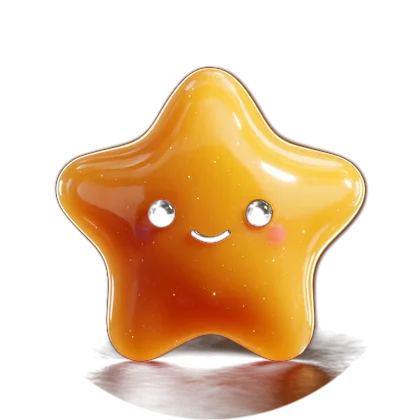
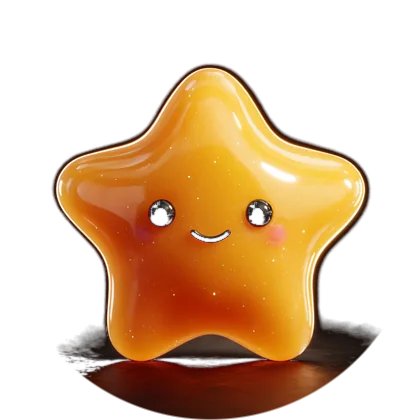
Tira o filtro branco, devolve opacidade e poe a Lara nos cartoes
Feedback do Ademir, tela por tela:

- O veu branco por cima das artes caiu de ~80% pra ~20%. Quem precisava de
  contraste (titulos, texto solto) ganhou sombra propria em vez de uma
  camada leitosa sobre a imagem inteira.
- Planetas voltaram a ser opacos: o recorte usava rampa longa e deixava o
  lado escuro do planeta semitransparente, com a nebulosa aparecendo por
  dentro. Agora acima de 22 de luminancia e 100% solido.
- Casas do jogo da velha viraram vitral escuro translucido: o castelo
  aparece inteiro e o ✗ e o ◯ ganharam contraste em cima dele.
- Boneca do quiz subiu de 44% pra 72% de opacidade e ganhou um halo suave
  atras, pra nunca se perder no fundo.
- Fim da rolagem vertical e da faixa roxa: home e menus agora dividem a
  altura disponivel em vez de estourar a tela.
- Bug do fundo: a troca era engolida quando a foto se repetia entre telas,
  porque eu comparava com a camada de tras em vez da que estava visivel.
- Cartoes da home agora tem a Lara de verdade em tres deles e Saturno no
  quarto. As 10 poses dela entraram recortadas com fundo transparente.

diff --git a/css/style.css b/css/style.css
@@ -26,9 +26,10 @@
 
 *,*::before,*::after{box-sizing:border-box;margin:0;padding:0}
 
-html,body{height:100%}
+html,body{height:100%;min-height:100%}
 
 body{
+  background:#0F0A24;
   font-family:var(--font);
   color:var(--ink);
   background:var(--purple-deep);
@@ -51,7 +52,7 @@ button{font:inherit;color:inherit;border:0;background:none;cursor:pointer;touch-
   width:100%;
   max-width:520px;
   margin:0 auto;
-  min-height:100dvh;
+  min-height:100dvh;height:100dvh;
   background:linear-gradient(170deg,#FFF6FB 0%,#F4ECFF 55%,#E9E2FF 100%);
   overflow:hidden;
   box-shadow:0 0 70px rgba(0,0,0,.45);
@@ -133,8 +134,10 @@ button{font:inherit;color:inherit;border:0;background:none;cursor:pointer;touch-
    =========================================================== */
 .home-top{display:flex;align-items:flex-start;justify-content:space-between;gap:12px}
 .hello{display:flex;flex-direction:column}
-.hello__hi{font-size:30px;font-weight:900;letter-spacing:-.5px;color:var(--ink)}
-.hello__q{font-size:15px;color:var(--ink-soft);margin-top:2px}
+.hello__hi{font-size:30px;font-weight:900;letter-spacing:-.5px;color:var(--ink);
+  text-shadow:0 1px 12px rgba(255,255,255,.9),0 1px 3px rgba(255,255,255,.9)}
+.hello__q{font-size:15px;color:var(--ink-soft);margin-top:2px;
+  text-shadow:0 1px 8px rgba(255,255,255,.9)}
 
 .icon-btn{
   flex:0 0 auto;display:grid;place-items:center;
@@ -156,28 +159,32 @@ button{font:inherit;color:inherit;border:0;background:none;cursor:pointer;touch-
 .star-bar__count{font-size:22px;font-weight:900;color:#8A5B00}
 .star-bar__label{font-size:14px;color:#8A5B00;opacity:.8}
 
-.menu{flex:1;display:grid;grid-template-columns:1fr 1fr;gap:14px;align-content:center;padding-bottom:8px}
+.menu{flex:1;min-height:0;display:grid;grid-template-columns:1fr 1fr;grid-template-rows:1fr 1fr;
+  gap:14px;padding-bottom:8px}
 .tile{
   display:flex;flex-direction:column;align-items:center;justify-content:center;gap:10px;
-  width:100%;min-height:168px;padding:18px 12px;border-radius:var(--radius);
+  width:100%;height:100%;min-height:0;padding:16px 12px;border-radius:var(--radius);
   text-align:center;color:#fff;box-shadow:var(--shadow);position:relative;overflow:hidden;
 }
-.tile strong{font-size:19px;font-weight:900;line-height:1.1;letter-spacing:-.4px;min-height:2.2em;
-  display:flex;align-items:center}
+.tile strong{font-size:18px;font-weight:900;line-height:1.05;letter-spacing:-.5px;min-height:2.1em;
+  display:flex;align-items:center;text-align:center}
 .tile:active{transform:translateY(5px);box-shadow:0 4px 0 rgba(43,27,84,.14)}
 .tile--body{background:linear-gradient(140deg,#FF83B8,var(--pink) 55%,#F0417F)}
 .tile--space{background:linear-gradient(140deg,#5E6BFF,#7C4DFF 50%,#4B2E93)}
+.tile--space .tile__foto{filter:drop-shadow(0 6px 16px rgba(0,0,0,.45))}
 .tile--words{background:linear-gradient(140deg,#5CE8BC,#12A87E 60%,#0B7A5C)}
 .tile--tic{background:linear-gradient(140deg,#FFC155,#F0761F)}
 .tile__art{
-  flex:0 0 auto;width:70px;height:70px;border-radius:20px;background:rgba(255,255,255,.22);
-  display:grid;place-items:center;padding:8px;
+  flex:1;min-height:0;width:100%;display:grid;place-items:center;padding:0;
 }
-.tile__art svg{width:100%;height:100%}
-.tile--space .tile__art svg{animation:spinSlow 14s linear infinite}
+.tile__foto{max-height:100%;max-width:88%;width:auto;height:auto;object-fit:contain;
+  filter:drop-shadow(0 6px 14px rgba(0,0,0,.28))}
+
+
 @keyframes spinSlow{to{transform:rotate(360deg)}}
 
-.home-foot{padding-top:14px;text-align:center;font-size:13px;color:var(--ink-soft);opacity:.75}
+.home-foot{padding-top:14px;text-align:center;font-size:13px;color:var(--ink-soft);opacity:.9;
+  text-shadow:0 1px 8px rgba(255,255,255,.95)}
 
 
 /* ===========================================================
@@ -221,7 +228,10 @@ button{font:inherit;color:inherit;border:0;background:none;cursor:pointer;touch-
    BARRA DE TOPO
    =========================================================== */
 .bar{display:flex;align-items:center;gap:12px;margin-bottom:14px;min-height:52px}
-.bar__title{flex:1;text-align:center;font-size:19px;font-weight:900;letter-spacing:-.2px}
+.bar__title{flex:1;text-align:center;font-size:19px;font-weight:900;letter-spacing:-.2px;
+  text-shadow:0 1px 10px rgba(255,255,255,.85),0 1px 3px rgba(255,255,255,.85)}
+.screen--dark .bar__title,.screen--space .bar__title,.screen--quiz.is-space .bar__title{
+  text-shadow:0 2px 10px rgba(0,0,0,.7),0 1px 3px rgba(0,0,0,.8)}
 .bar__stars{font-size:16px;font-weight:800;min-width:52px;text-align:right}
 .bar__spacer{width:52px;flex:0 0 52px}
 .bar--onspace{position:relative;z-index:2}
@@ -229,7 +239,7 @@ button{font:inherit;color:inherit;border:0;background:none;cursor:pointer;touch-
 /* ===========================================================
    MENU DE MODOS
    =========================================================== */
-.modes{display:flex;flex-direction:column;gap:16px;margin-top:6px}
+.modes{flex:1;min-height:0;display:flex;flex-direction:column;gap:16px;margin-top:6px}
 .mode{
   display:flex;flex-direction:column;align-items:flex-start;gap:4px;
   min-height:132px;padding:20px 88px 20px 20px;border-radius:var(--radius);text-align:left;
@@ -244,15 +254,16 @@ button{font:inherit;color:inherit;border:0;background:none;cursor:pointer;touch-
 .mode--play{border-left:8px solid var(--sun)}
 
 /* corpo: dois grupos (por fora / por dentro) com dois botões cada */
-.grupo{margin-bottom:20px}
+.grupo{margin-bottom:16px;display:flex;flex-direction:column;min-height:0}
 .grupo__titulo{
   display:flex;align-items:center;gap:10px;margin:0 4px 10px;
   font-size:17px;font-weight:900;letter-spacing:-.2px;
+  text-shadow:0 1px 10px rgba(255,255,255,.9),0 1px 3px rgba(255,255,255,.9);
 }
-.duo{display:grid;grid-template-columns:1fr 1fr;gap:12px}
+.duo{flex:1;min-height:0;display:grid;grid-template-columns:1fr 1fr;gap:12px}
 .duo>.mode-wrap{min-width:0}
 .mode--curto{
-  min-height:118px;padding:16px 12px;align-items:center;justify-content:center;
+  min-height:0;height:100%;padding:14px 12px;align-items:center;justify-content:center;
   text-align:center;gap:4px;border-left:0;border-top:8px solid var(--mint);
 }
 .mode--curto.mode--play{border-top-color:var(--sun)}
@@ -265,7 +276,10 @@ button{font:inherit;color:inherit;border:0;background:none;cursor:pointer;touch-
    =========================================================== */
 
 .stage{flex:1;min-height:0;padding:4px 0 10px}
-.stage .kid{height:100%}
+.stage .kid{height:100%;position:relative}
+.stage .kid::before{content:'';position:absolute;left:50%;top:50%;
+  width:86%;height:88%;transform:translate(-50%,-50%);border-radius:50%;
+  background:radial-gradient(closest-side,rgba(255,252,255,.70),rgba(255,252,255,.30) 58%,transparent 72%)}
 .kid{width:100%}
 .kid svg{width:100%;height:100%;display:block}
 
@@ -278,7 +292,8 @@ button{font:inherit;color:inherit;border:0;background:none;cursor:pointer;touch-
 }
 @keyframes ringPulse{0%,100%{opacity:1}50%{opacity:.55}}
 .kid .art{transition:opacity .3s ease}
-.kid.is-focando .art{opacity:.44}
+.kid.is-focando .art{opacity:.72}
+.kid svg{filter:drop-shadow(0 6px 18px rgba(43,27,84,.28))}
 .kid .foco{display:none;pointer-events:none}
 .kid.is-focando .foco{display:block}
 .kid .qmark{font:900 46px var(--font);fill:#fff;text-anchor:middle;paint-order:stroke;
@@ -312,7 +327,7 @@ button{font:inherit;color:inherit;border:0;background:none;cursor:pointer;touch-
   animation:twinkle 4s ease-in-out infinite alternate;
 }
 .space-hint{position:relative;z-index:2;display:flex;align-items:center;justify-content:center;
-  gap:10px;font-size:14px;margin-bottom:10px}
+  gap:10px;font-size:14px;margin-bottom:10px;text-shadow:0 2px 8px rgba(0,0,0,.8)}
 .space-hint>span{opacity:.75}
 
 .orbit-scroll{
@@ -348,7 +363,7 @@ button{font:inherit;color:inherit;border:0;background:none;cursor:pointer;touch-
 @keyframes floatY{0%,100%{transform:translateY(0)}50%{transform:translateY(-12px)}}
 .planet-card__toque:active .planet-card__orb{transform:scale(.94)}
 .planet-card__name{font-size:17px;font-weight:900;letter-spacing:-.2px}
-.planet-card__pos{font-size:11px;opacity:.6}
+.planet-card__pos{font-size:11px;opacity:.85;text-shadow:0 2px 6px rgba(0,0,0,.9)}
 
 /* ficha do planeta */
 .sheet{position:fixed;inset:0;z-index:60;display:grid;place-items:end center}
@@ -395,7 +410,11 @@ button{font:inherit;color:inherit;border:0;background:none;cursor:pointer;touch-
 .screen--quiz.is-space .progress i.is-now{background:var(--sun)}
 
 .quiz-stage{flex:1;min-height:0;padding:2px 0;position:relative}
-.quiz-stage .kid{height:100%}
+.quiz-stage .kid{height:100%;position:relative}
+.quiz-stage .kid::before{content:'';position:absolute;left:50%;top:50%;
+  width:86%;height:88%;transform:translate(-50%,-50%);border-radius:50%;
+  background:radial-gradient(closest-side,rgba(255,252,255,.72),rgba(255,252,255,.34) 58%,transparent 72%)}
+.screen--quiz.is-space .quiz-stage .kid::before{display:none}
 .planeta-quiz{height:100%;display:grid;place-items:center;animation:floatY 5s ease-in-out infinite}
 .planeta-quiz svg,.planeta-quiz .orbe{width:auto;height:auto;max-width:min(74vw,100%);max-height:100%;
   display:block;filter:drop-shadow(0 18px 34px rgba(0,0,0,.45))}
@@ -404,7 +423,9 @@ button{font:inherit;color:inherit;border:0;background:none;cursor:pointer;touch-
 .sheet__art .orbe{filter:drop-shadow(0 12px 30px rgba(0,0,0,.55))}
 
 .quiz-ask{display:flex;align-items:center;justify-content:center;gap:10px;margin:6px 0 14px}
-.quiz-ask h3{font-size:22px;font-weight:900;letter-spacing:-.3px}
+.quiz-ask h3{font-size:22px;font-weight:900;letter-spacing:-.3px;
+  text-shadow:0 1px 10px rgba(255,255,255,.9),0 1px 3px rgba(255,255,255,.9)}
+.screen--quiz.is-space .quiz-ask h3{text-shadow:0 2px 10px rgba(0,0,0,.75)}
 .speak-btn{
   display:grid;place-items:center;width:52px;height:52px;border-radius:18px;font-size:22px;
   background:#fff;box-shadow:0 4px 0 rgba(43,27,84,.12);
@@ -521,17 +542,19 @@ button{font:inherit;color:inherit;border:0;background:none;cursor:pointer;touch-
   display:grid;grid-template-columns:repeat(3,1fr);grid-template-rows:repeat(3,1fr);gap:10px;
 }
 .casa{
-  background:#fff;border-radius:22px;box-shadow:0 6px 0 rgba(43,27,84,.12);
+  background:rgba(28,16,52,.26);border:3px solid rgba(255,255,255,.78);
+  border-radius:22px;box-shadow:0 6px 0 rgba(40,24,10,.22),inset 0 2px 12px rgba(0,0,0,.18);
+  backdrop-filter:blur(2px);
   display:grid;place-items:center;padding:9%;
 }
 .casa:active{transform:translateY(4px);box-shadow:0 2px 0 rgba(43,27,84,.12)}
-.casa--cheia{background:#FFFDF7}
-.casa--ganhou{background:linear-gradient(180deg,#5BE7BC,var(--mint));box-shadow:0 6px 0 var(--mint-dark);
+.casa--cheia{background:rgba(28,16,52,.34)}
+.casa--ganhou{background:linear-gradient(180deg,rgba(91,231,188,.92),rgba(46,211,163,.92));box-shadow:0 6px 0 var(--mint-dark);border-color:rgba(255,255,255,.8);
   animation:rightPop .5s cubic-bezier(.2,.9,.3,1.6)}
 .marca{width:100%;height:100%;fill:none;stroke-linecap:round}
-.marca--x{stroke:var(--pink)}
-.marca--o{stroke:var(--purple)}
-.marca path,.marca circle{stroke-width:13;stroke-dasharray:210;stroke-dashoffset:210;
+.marca--x{stroke:#FF4D97;filter:drop-shadow(0 2px 10px rgba(0,0,0,.65))}
+.marca--o{stroke:#A98BFF;filter:drop-shadow(0 2px 10px rgba(0,0,0,.65))}
+.marca path,.marca circle{stroke-width:15;stroke-dasharray:210;stroke-dashoffset:210;
   animation:risca .34s ease-out forwards}
 .marca path:nth-of-type(2){animation-delay:.15s}
 @keyframes risca{to{stroke-dashoffset:0}}
@@ -559,7 +582,6 @@ button{font:inherit;color:inherit;border:0;background:none;cursor:pointer;touch-
   .placar__item b{font-size:18px}
   .velha-status{font-size:17px;padding:10px 16px}
   .tile{min-height:146px;gap:8px}
-  .tile__art{width:64px;height:64px}
   .tile strong{font-size:17px}
   .letra{height:56px;font-size:30px}
   .opt--letra{min-height:78px;font-size:44px}

diff --git a/js/app.js b/js/app.js
@@ -36,15 +36,18 @@ var App = (function () {
     'result':           { foto:'fundo-home',   veu:'claro'  }
   };
 
+  /* Véu mínimo. A imagem é o espetáculo — quem precisa de contraste
+     (título, texto solto) ganha sombra própria no CSS, não uma camada
+     branca por cima da arte inteira. */
   var VEUS = {
-    claro:  'linear-gradient(180deg, rgba(255,246,251,.74) 0%, rgba(252,244,255,.52) 38%, rgba(244,236,255,.80) 100%)',
-    escuro: 'linear-gradient(180deg, rgba(20,12,44,.55), rgba(12,8,30,.78))',
-    espaco: 'linear-gradient(180deg, rgba(8,10,32,.62), rgba(5,6,22,.80))',
-    meio:   'linear-gradient(180deg, rgba(255,246,240,.58) 0%, rgba(255,242,232,.44) 40%, rgba(255,238,225,.78) 100%)',
-    quiz:   'linear-gradient(180deg, rgba(255,248,252,.90), rgba(245,238,255,.94))',
-    /* cenário aparece em cima, onde está o desenho; some embaixo, onde ela lê e escolhe */
-    cena:   'linear-gradient(180deg, rgba(255,250,253,.34) 0%, rgba(255,249,253,.52) 42%, rgba(250,244,255,.92) 72%)'
+    claro:  'linear-gradient(180deg, rgba(255,248,252,.34) 0%, rgba(252,246,255,.16) 40%, rgba(246,238,255,.42) 100%)',
+    escuro: 'linear-gradient(180deg, rgba(16,10,38,.34), rgba(10,6,26,.55))',
+    espaco: 'linear-gradient(180deg, rgba(8,10,32,.28), rgba(5,6,22,.52))',
+    meio:   'linear-gradient(180deg, rgba(255,248,242,.20) 0%, rgba(255,246,238,.10) 45%, rgba(255,240,228,.36) 100%)',
+    quiz:   'linear-gradient(180deg, rgba(255,248,252,.30), rgba(245,238,255,.48))',
+    cena:   'linear-gradient(180deg, rgba(255,250,253,.14) 0%, rgba(255,249,253,.24) 42%, rgba(250,244,255,.62) 74%)'
   };
+
 
   var fundoAtivo = 'a';
   function pintarFundo(nome, extra) {
@@ -52,15 +55,19 @@ var App = (function () {
     var veu = $('#fundo-veu');
     if (!cfg) { veu.style.background = ''; $('#fundo-a').classList.remove('is-on'); $('#fundo-b').classList.remove('is-on'); return; }
 
-    var alvo = fundoAtivo === 'a' ? $('#fundo-b') : $('#fundo-a');
     var url = 'url("img/' + cfg.foto + '.webp")';
-    if (alvo.style.backgroundImage !== url) {
-      alvo.style.backgroundImage = url;
-      alvo.classList.add('is-on');
-      (fundoAtivo === 'a' ? $('#fundo-a') : $('#fundo-b')).classList.remove('is-on');
-      fundoAtivo = fundoAtivo === 'a' ? 'b' : 'a';
-    }
+    var visivel = fundoAtivo === 'a' ? $('#fundo-a') : $('#fundo-b');
     veu.style.background = VEUS[cfg.veu] || VEUS.claro;
+
+    /* já é essa a imagem no ar? não faz nada. (antes eu comparava com a
+       camada de trás e a troca era engolida quando a foto se repetia) */
+    if (visivel.style.backgroundImage === url) return;
+
+    var alvo = fundoAtivo === 'a' ? $('#fundo-b') : $('#fundo-a');
+    alvo.style.backgroundImage = url;
+    alvo.classList.add('is-on');
+    visivel.classList.remove('is-on');
+    fundoAtivo = fundoAtivo === 'a' ? 'b' : 'a';
   }
 
   function ir(nome) {

diff --git a/index.html b/index.html
@@ -65,7 +65,7 @@
     <div class="menu">
       <div class="tile-wrap">
         <button class="tile tile--body" data-go="corpo-menu" type="button">
-          <span class="tile__art"><svg viewBox="0 0 120 120" aria-hidden="true"><use href="#mini-kid"></use></svg></span>
+          <span class="tile__art"><img src="img/lara-corpo.webp" alt="" class="tile__foto"></span>
           <strong>Corpo Humano</strong>
         </button>
         <button class="som-btn som-btn--nano som-flutuante" type="button" aria-label="Ouvir Corpo Humano"
@@ -74,7 +74,7 @@
 
       <div class="tile-wrap">
         <button class="tile tile--space" data-go="espaco-menu" type="button">
-          <span class="tile__art"><svg viewBox="0 0 120 120" aria-hidden="true"><use href="#mini-planet"></use></svg></span>
+          <span class="tile__art"><img src="img/icone-espaco.webp" alt="" class="tile__foto"></span>
           <strong>Sistema Solar</strong>
         </button>
         <button class="som-btn som-btn--nano som-flutuante" type="button" aria-label="Ouvir Sistema Solar"
@@ -83,7 +83,7 @@
 
       <div class="tile-wrap">
         <button class="tile tile--words" data-go="palavras-jogar" type="button">
-          <span class="tile__art"><svg viewBox="0 0 120 120" aria-hidden="true"><use href="#mini-letras"></use></svg></span>
+          <span class="tile__art"><img src="img/lara-palavras.webp" alt="" class="tile__foto"></span>
           <strong>Palavras</strong>
         </button>
         <button class="som-btn som-btn--nano som-flutuante" type="button" aria-label="Ouvir Palavras"
@@ -92,7 +92,7 @@
 
       <div class="tile-wrap">
         <button class="tile tile--tic" data-go="velha-menu" type="button">
-          <span class="tile__art"><svg viewBox="0 0 120 120" aria-hidden="true"><use href="#mini-velha"></use></svg></span>
+          <span class="tile__art"><img src="img/lara-velha.webp" alt="" class="tile__foto"></span>
           <strong>Jogo da Velha</strong>
         </button>
         <button class="som-btn som-btn--nano som-flutuante" type="button" aria-label="Ouvir Jogo da Velha"

diff --git a/sw.js b/sw.js
@@ -1,7 +1,7 @@
 /* Service worker — o app abre offline e se atualiza sozinho.
    Estratégia: entrega o que está em cache na hora (rápido pra criança)
    e, em paralelo, baixa a versão nova pro próximo abrir. */
-var CACHE = 'mundo-da-lara-v9';
+var CACHE = 'mundo-da-lara-v11';
 var ARQUIVOS = [
   './',
   'index.html',
@@ -27,6 +27,17 @@ var ARQUIVOS = [
   'img/fundo-home.webp',
   'img/fundo-inicio.webp',
   'img/fundo-velha.webp',
+  'img/icone-espaco.webp',
+  'img/lara-astronauta.webp',
+  'img/lara-cientista.webp',
+  'img/lara-corpo.webp',
+  'img/lara-espaco.webp',
+  'img/lara-festa.webp',
+  'img/lara-oi.webp',
+  'img/lara-palavras.webp',
+  'img/lara-princesa.webp',
+  'img/lara-unicornio.webp',
+  'img/lara-velha.webp',
   'img/planeta-jupiter-b.webp',
   'img/planeta-jupiter.webp',
   'img/planeta-marte-b.webp',
